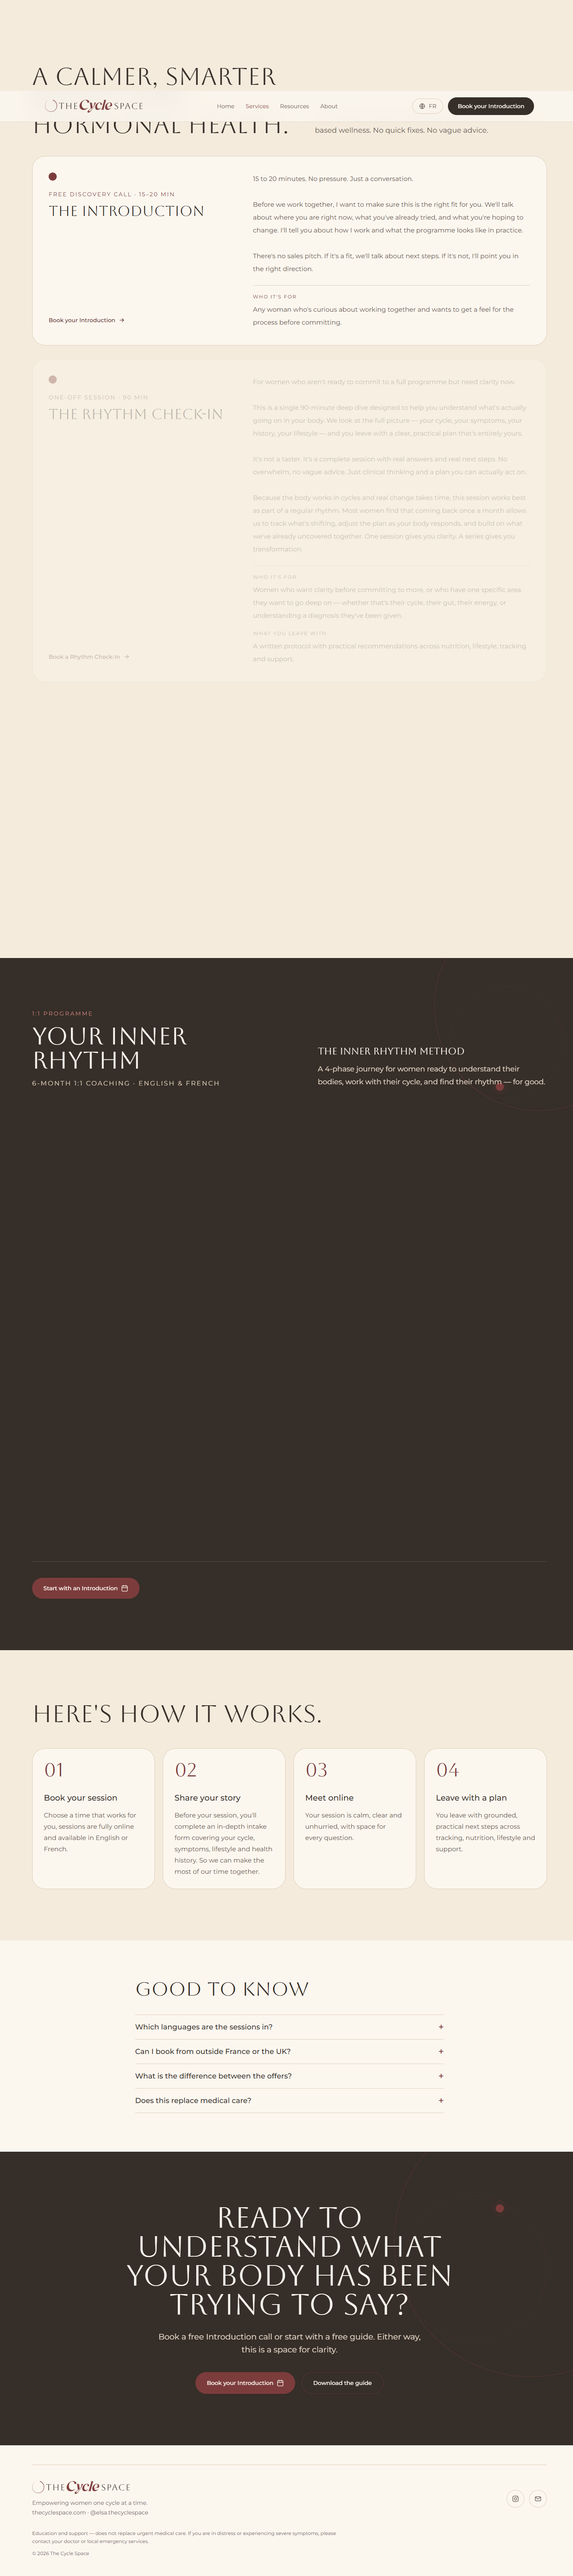
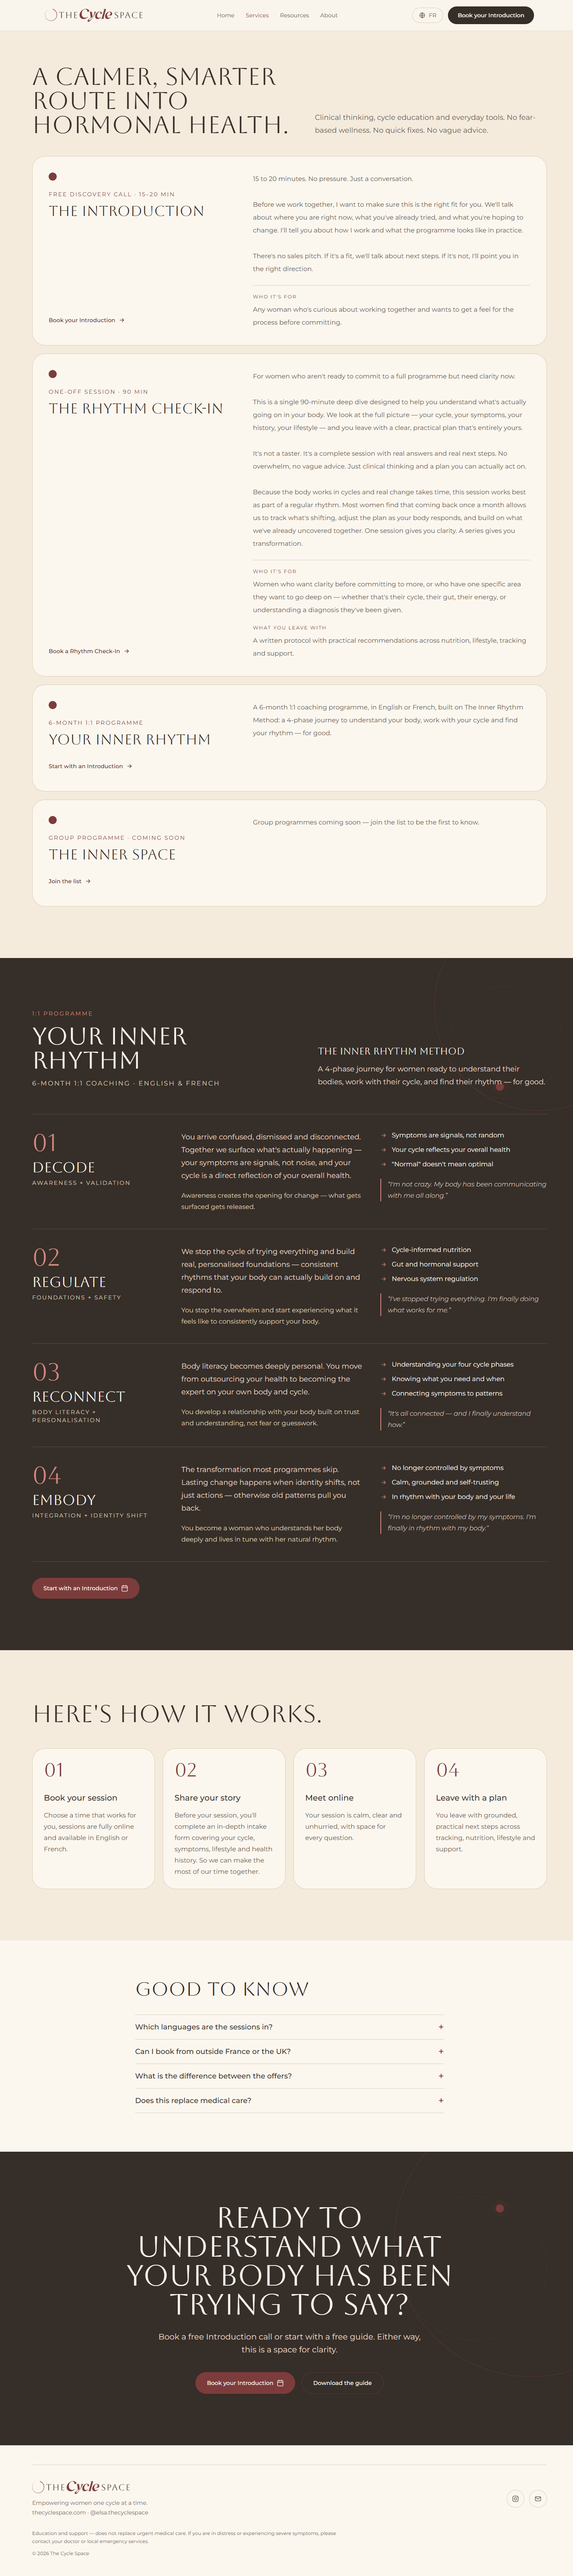
perf: replace Framer Motion with CSS (JS 428KB -> 316KB), content always visible in HTML
- Reveal component (IntersectionObserver) + CSS keyframes for orbits and modal
- No motion for reduced-motion users; below-fold blocks only hidden after load
- Remove framer-motion dependency

diff --git a/src/components/ui.jsx b/src/components/ui.jsx
@@ -1,6 +1,5 @@
-import React from "react";
+import React, { useEffect, useRef } from "react";
 import { Link } from "react-router-dom";
-import { motion } from "framer-motion";
 
 export function Icon({ name, size = 18, className = "" }) {
   const common = {
@@ -140,26 +139,50 @@ export function Card({ children, className = "" }) {
   );
 }
 
+// Fade-up on scroll, with no animation library. Content is ALWAYS visible in the HTML
+// (prerender, no JavaScript, reduced motion). Only blocks that start below the fold are
+// hidden by the browser right after load, then revealed when they scroll into view.
+export function Reveal({ as: Tag = "div", delay = 0, className = "", children, ...rest }) {
+  const ref = useRef(null);
+  useEffect(() => {
+    const el = ref.current;
+    if (!el || typeof IntersectionObserver === "undefined") return;
+    if (window.matchMedia("(prefers-reduced-motion: reduce)").matches) return;
+    if (el.getBoundingClientRect().top < window.innerHeight * 0.92) return;
+    el.style.transitionDelay = `${delay}s`;
+    el.classList.add("reveal-hidden");
+    const io = new IntersectionObserver(
+      ([entry]) => {
+        if (!entry.isIntersecting) return;
+        el.classList.remove("reveal-hidden");
+        io.disconnect();
+      },
+      { threshold: 0.12 }
+    );
+    io.observe(el);
+    return () => io.disconnect();
+  }, [delay]);
+  return (
+    <Tag ref={ref} className={`reveal ${className}`} {...rest}>
+      {children}
+    </Tag>
+  );
+}
+
 export function OrbitalGraphic({ dense = false }) {
   return (
     <div className="pointer-events-none absolute inset-0 overflow-hidden" aria-hidden="true">
-      <motion.div
-        initial={{ opacity: 0, scale: 0.96, rotate: -8 }}
-        animate={{ opacity: 1, scale: 1, rotate: 0 }}
-        transition={{ duration: 1.4, ease: "easeOut" }}
-        className={`absolute rounded-full border border-[#7C3C3C]/50 ${
+      <div
+        className={`orbit-a absolute rounded-full border border-[#7C3C3C]/50 ${
           dense ? "right-[-160px] top-[-140px] h-[520px] w-[520px]" : "right-[-220px] top-[-120px] h-[680px] w-[680px]"
         }`}
       />
-      <motion.div
-        initial={{ opacity: 0, rotate: 18 }}
-        animate={{ opacity: 1, rotate: 0 }}
-        transition={{ duration: 1.8, ease: "easeOut", delay: 0.2 }}
-        className={`absolute rounded-full border border-[#7C3C3C]/25 ${
+      <div
+        className={`orbit-b absolute rounded-full border border-[#7C3C3C]/25 ${
           dense ? "right-[40px] top-[70px] h-[280px] w-[280px]" : "right-[80px] top-[110px] h-[360px] w-[360px]"
         }`}
       />
-      <div className="absolute right-[13%] top-[18%] hidden h-5 w-5 sm:block rounded-full bg-[#7C3C3C] shadow-[0_0_0_10px_rgba(124,60,60,0.08)]" />
+      <div className="absolute right-[13%] top-[18%] hidden h-5 w-5 rounded-full bg-[#7C3C3C] shadow-[0_0_0_10px_rgba(124,60,60,0.08)] sm:block" />
     </div>
   );
 }

diff --git a/src/components/Method.jsx b/src/components/Method.jsx
@@ -1,6 +1,5 @@
 import { Link } from "react-router-dom";
-import { motion } from "framer-motion";
-import { Icon, Button, OrbitalGraphic } from "./ui";
+import { Icon, Button, OrbitalGraphic, Reveal } from "./ui";
 import { useI18n } from "../lib/i18n";
 import { useBooking } from "../lib/booking";
 
@@ -42,13 +41,7 @@ export default function Method({ detailed = false }) {
         {detailed ? (
           <div className="mt-12 md:mt-16">
             {m.phases.map((phase, idx) => (
-              <motion.article
-                key={phase.num}
-                initial={{ opacity: 0, y: 18 }}
-                whileInView={{ opacity: 1, y: 0 }}
-                viewport={{ once: true, amount: 0.2 }}
-                transition={{ duration: 0.45, delay: idx * 0.04 }}
-                className="grid gap-6 border-t border-[#FBF7EF]/15 py-8 md:grid-cols-[0.8fr_1.1fr_1fr] md:gap-10 md:py-10"
+              <Reveal as="article" key={phase.num} delay={idx * 0.04} className="grid gap-6 border-t border-[#FBF7EF]/15 py-8 md:grid-cols-[0.8fr_1.1fr_1fr] md:gap-10 md:py-10"
               >
                 <div>
                   <p className="font-serif text-5xl text-[#D4887F] md:text-6xl">{phase.num}</p>
@@ -72,7 +65,7 @@ export default function Method({ detailed = false }) {
                     &ldquo;{phase.quote}&rdquo;
                   </p>
                 </div>
-              </motion.article>
+              </Reveal>
             ))}
             <div className="border-t border-[#FBF7EF]/15 pt-10">
               <Button
@@ -87,19 +80,13 @@ export default function Method({ detailed = false }) {
           <>
             <div className="mt-10 grid gap-4 md:mt-14 md:grid-cols-4 md:gap-5">
               {m.phases.map((phase, idx) => (
-                <motion.div
-                  key={phase.num}
-                  initial={{ opacity: 0, y: 18 }}
-                  whileInView={{ opacity: 1, y: 0 }}
-                  viewport={{ once: true, amount: 0.2 }}
-                  transition={{ duration: 0.45, delay: idx * 0.05 }}
-                  className="rounded-[2rem] border border-[#FBF7EF]/15 bg-[#43372F]/60 p-6 md:p-7"
+                <Reveal key={phase.num} delay={idx * 0.05} className="rounded-[2rem] border border-[#FBF7EF]/15 bg-[#43372F]/60 p-6 md:p-7"
                 >
                   <p className="font-serif text-4xl text-[#D4887F] md:text-5xl">{phase.num}</p>
                   <h3 className="mt-5 font-serif text-2xl md:text-3xl">{phase.title}</h3>
                   <p className="mt-2 text-xs uppercase tracking-[0.16em] text-[#DCCDB8]">{phase.tag}</p>
                   <p className="mt-4 text-base leading-7 text-[#E7D8C8]">{phase.body}</p>
-                </motion.div>
+                </Reveal>
               ))}
             </div>
             <div className="mt-10 md:mt-12">

diff --git a/src/pages/Services.jsx b/src/pages/Services.jsx
@@ -1,5 +1,4 @@
-import { motion } from "framer-motion";
-import { Icon, Card } from "../components/ui";
+import { Icon, Card, Reveal } from "../components/ui";
 import FinalCTA from "../components/FinalCTA";
 import Method from "../components/Method";
 import { useI18n } from "../lib/i18n";
@@ -49,13 +48,7 @@ export default function Services() {
       <section className="bg-[#F4EBDD] px-5 pb-16 md:px-8 md:pb-32">
         <div className="mx-auto grid max-w-7xl gap-4 md:gap-5">
           {t.services.map((service, idx) => (
-            <motion.div
-              key={service.title}
-              initial={{ opacity: 0, y: 18 }}
-              whileInView={{ opacity: 1, y: 0 }}
-              viewport={{ once: true, amount: 0.15 }}
-              transition={{ duration: 0.45, delay: Math.min(idx, 2) * 0.05 }}
-            >
+            <Reveal key={service.title} delay={Math.min(idx, 2) * 0.05}>
               <Card className="shadow-none transition hover:shadow-xl">
                 <div className="grid grid-cols-1 gap-6 p-5 sm:p-6 md:grid-cols-[0.8fr_1.2fr] md:gap-12 md:p-10">
                   <div className="flex min-w-0 flex-col">
@@ -84,7 +77,7 @@ export default function Services() {
                   </div>
                 </div>
               </Card>
-            </motion.div>
+            </Reveal>
           ))}
         </div>
       </section>

diff --git a/src/components/BookingModal.jsx b/src/components/BookingModal.jsx
@@ -1,5 +1,4 @@
 import { useEffect, useRef, useState } from "react";
-import { motion } from "framer-motion";
 import { Icon, Button } from "./ui";
 import { useBooking } from "../lib/booking";
 import { useI18n } from "../lib/i18n";
@@ -78,11 +77,9 @@ export default function BookingModal() {
       className="fixed inset-0 z-50 flex items-center justify-center bg-[#362E28]/75 p-0 backdrop-blur-sm sm:p-3 md:p-6"
       onClick={closeBooking}
     >
-      <motion.div
-        initial={{ opacity: 0, y: 16, scale: 0.98 }}
-        animate={{ opacity: 1, y: 0, scale: 1 }}
+      <div
         onClick={(e) => e.stopPropagation()}
-        className="relative flex h-[100dvh] w-full max-w-5xl flex-col overflow-hidden bg-[#FBF7EF] shadow-2xl sm:h-[92dvh] sm:rounded-[1.5rem] md:h-[88vh] md:rounded-[2rem]"
+        className="modal-in relative flex h-[100dvh] w-full max-w-5xl flex-col overflow-hidden bg-[#FBF7EF] shadow-2xl sm:h-[92dvh] sm:rounded-[1.5rem] md:h-[88vh] md:rounded-[2rem]"
       >
         <div className="flex items-start justify-between gap-4 border-b border-[#DCCDB8] px-4 py-3 sm:px-6 sm:py-5 md:px-8">
           <div>
@@ -122,7 +119,7 @@ export default function BookingModal() {
           )}
           <div ref={widgetRef} className="h-full w-full" style={{ minHeight: 600 }} />
         </div>
-      </motion.div>
+      </div>
     </div>
   );
 }

diff --git a/src/index.css b/src/index.css
@@ -32,3 +32,32 @@ body {
   outline: 2px solid #7C3C3C;
   outline-offset: 2px;
 }
+
+/* Scroll reveal (see Reveal in components/ui.jsx) and decorative orbits: CSS only. */
+.reveal {
+  transition: opacity 0.45s ease-out, transform 0.45s ease-out;
+}
+.reveal-hidden {
+  opacity: 0;
+  transform: translateY(18px);
+}
+@keyframes orbit-a {
+  from { opacity: 0; transform: scale(0.96) rotate(-8deg); }
+  to { opacity: 1; transform: none; }
+}
+@keyframes orbit-b {
+  from { opacity: 0; transform: rotate(18deg); }
+  to { opacity: 1; transform: none; }
+}
+@keyframes modal-in {
+  from { opacity: 0; transform: translateY(16px) scale(0.98); }
+  to { opacity: 1; transform: none; }
+}
+.orbit-a { animation: orbit-a 1.4s ease-out both; }
+.orbit-b { animation: orbit-b 1.8s ease-out 0.2s both; }
+.modal-in { animation: modal-in 0.25s ease-out both; }
+@media (prefers-reduced-motion: reduce) {
+  .reveal { transition: none; }
+  .reveal-hidden { opacity: 1; transform: none; }
+  .orbit-a, .orbit-b, .modal-in { animation: none; }
+}

diff --git a/src/App.jsx b/src/App.jsx
@@ -1,6 +1,5 @@
 import { lazy } from "react";
 import { BrowserRouter } from "react-router-dom";
-import { MotionConfig } from "framer-motion";
 import AppRoutes from "./AppRoutes";
 import Home from "./pages/Home";
 import NotFound from "./pages/NotFound";
@@ -22,11 +21,8 @@ const BASENAME = import.meta.env.BASE_URL.replace(/\/$/, "");
 
 export default function App() {
   return (
-    // reducedMotion="user": animations disabled for visitors who ask for less motion.
-    <MotionConfig reducedMotion="user">
-      <BrowserRouter basename={BASENAME}>
-        <AppRoutes pages={pages} />
-      </BrowserRouter>
-    </MotionConfig>
+    <BrowserRouter basename={BASENAME}>
+      <AppRoutes pages={pages} />
+    </BrowserRouter>
   );
 }

diff --git a/src/entry-server.jsx b/src/entry-server.jsx
@@ -2,7 +2,6 @@
 // static HTML file per route, so crawlers and no-JS visitors get real content.
 import { renderToString } from "react-dom/server";
 import { StaticRouter } from "react-router-dom";
-import { MotionConfig } from "framer-motion";
 import AppRoutes from "./AppRoutes";
 import Home from "./pages/Home";
 import Services from "./pages/Services";
@@ -20,11 +19,9 @@ const BASENAME = import.meta.env.BASE_URL.replace(/\/$/, "");
 
 export function render(path) {
   return renderToString(
-    <MotionConfig reducedMotion="always">
       <StaticRouter location={`${BASENAME}${path === "/" ? "/" : path}`} basename={BASENAME}>
         <AppRoutes pages={pages} />
       </StaticRouter>
-    </MotionConfig>
   );
 }
 

diff --git a/index.html b/index.html
@@ -49,8 +49,6 @@
       "inLanguage": ["en", "fr"]
     }
     </script>
-    <!-- Prerendered pages contain animated blocks that start transparent: keep them readable without JavaScript. -->
-    <noscript><style>[style*="opacity: 0"],[style*="opacity:0"]{opacity:1!important;transform:none!important}</style></noscript>
   </head>
   <body>
     <div id="root"></div>

diff --git a/docs/PHASE3_SEO.md b/docs/PHASE3_SEO.md
@@ -61,3 +61,15 @@ Plan recommandé (non lancé, car il change les URL et exige validation) :
 ## 6. Rollback
 
 `git revert` : le script de build revient à `vite build` seul (pas de pré-rendu), le site redevient une SPA classique. Aucun contenu touché.
+
+## 7. Complément : Framer Motion retiré
+
+Framer Motion (le plus gros poste de JavaScript) est remplacé par du CSS (`Reveal` dans `components/ui.jsx`, animations `orbit-a/orbit-b/modal-in` dans `index.css`). Même rendu : apparition au scroll des blocs situés sous la ligne de flottaison, orbites décoratives, ouverture de la modale. Différences voulues : le contenu est **toujours** présent et visible dans le HTML (pré-rendu, sans JavaScript, mouvement réduit) ; seuls les blocs hors écran sont masqués par le navigateur juste après le chargement, puis révélés.
+
+| | Avant | Après |
+|---|---|---|
+| JS initial | 428 Ko (gzip 140 Ko) | **316 Ko (gzip 104 Ko)** |
+| Dépendances | + framer-motion | **−1 dépendance** |
+| Lighthouse mobile (3 passages identiques, labo) | Perf 92 · FCP 1,9 s · LCP 3,2 s · TBT 50 ms | **Perf 94** · FCP 1,7 s · **LCP 3,0 s** · TBT ≈ 0 ms |
+
+Le LCP reste au-dessus de 2,5 s en simulation 4G lente (le texte du hero attend le CSS puis la police). Pistes restantes : `font-display: optional`, CSS critique en ligne, réduction de l'image/du HTML au-dessus de la ligne de flottaison. À mesurer en conditions réelles (Search Console, une fois le site indexé) avant d'aller plus loin.
